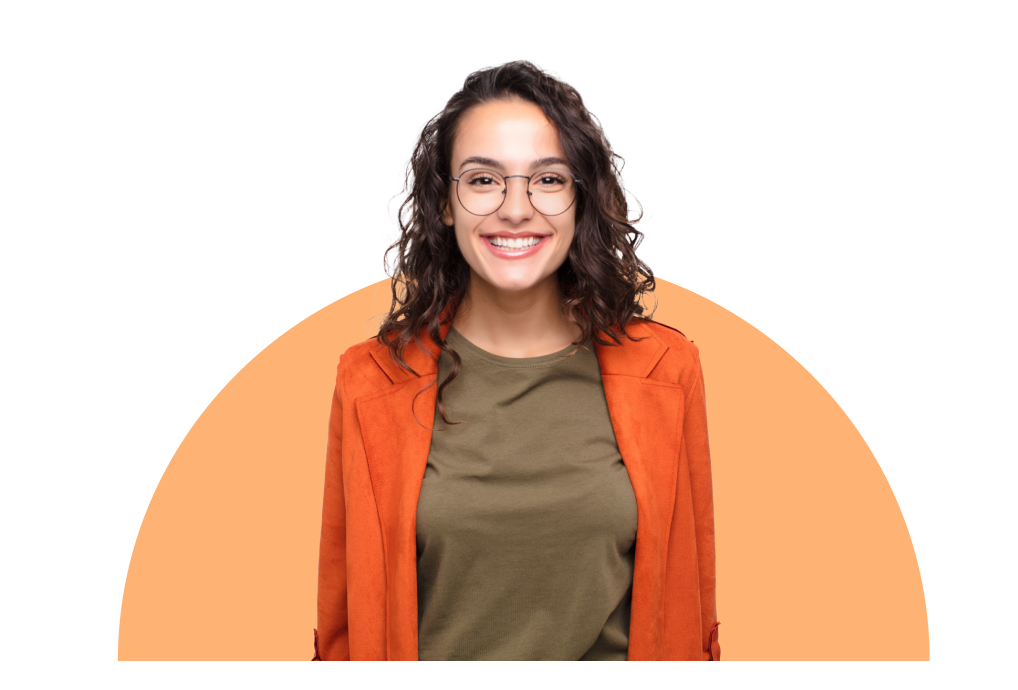
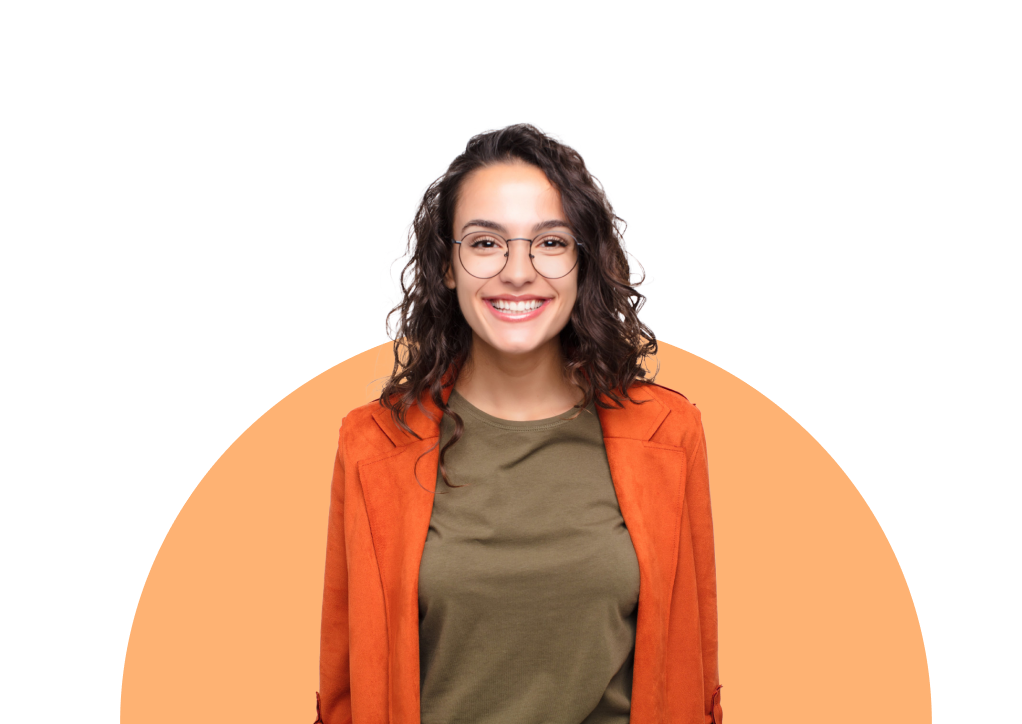
Updates

Changed region(s): [[0.0914, 0.0913, 0.9136, 1.0]]

diff --git a/css/style.css b/css/style.css
@@ -5,6 +5,7 @@
 :root  {  
             --orange:#FD853A;
             --bege:#F5EDEA;
+            --gray:#F2F4F7;
 }
 /* Add the local repository to the fonts */
 @font-face {
@@ -155,10 +156,10 @@
     font-family: 'Lufga';
     src: url('Lufga-MediumItalic.eot');
     src: local('Lufga Medium Italic'), local('Lufga-MediumItalic'),
-        url('Lufga-MediumItalic.eot?#iefix') format('embedded-opentype'),
-        url('Lufga-MediumItalic.woff2') format('woff2'),
-        url('Lufga-MediumItalic.woff') format('woff'),
-        url('Lufga-MediumItalic.ttf') format('truetype');
+    url('Lufga-MediumItalic.eot?#iefix') format('embedded-opentype'),
+    url('Lufga-MediumItalic.woff2') format('woff2'),
+    url('Lufga-MediumItalic.woff') format('woff'),
+    url('Lufga-MediumItalic.ttf') format('truetype');
     font-weight: 500;
     font-style: italic;
 }
@@ -167,10 +168,10 @@
     font-family: 'Lufga';
     src: url('Lufga-Italic.eot');
     src: local('Lufga Italic'), local('Lufga-Italic'),
-        url('Lufga-Italic.eot?#iefix') format('embedded-opentype'),
-        url('Lufga-Italic.woff2') format('woff2'),
-        url('Lufga-Italic.woff') format('woff'),
-        url('Lufga-Italic.ttf') format('truetype');
+    url('Lufga-Italic.eot?#iefix') format('embedded-opentype'),
+    url('Lufga-Italic.woff2') format('woff2'),
+    url('Lufga-Italic.woff') format('woff'),
+    url('Lufga-Italic.ttf') format('truetype');
     font-weight: normal;
     font-style: italic;
 }
@@ -179,10 +180,10 @@
     font-family: 'Lufga';
     src: url('Lufga-SemiBold.eot');
     src: local('Lufga SemiBold'), local('Lufga-SemiBold'),
-        url('Lufga-SemiBold.eot?#iefix') format('embedded-opentype'),
-        url('Lufga-SemiBold.woff2') format('woff2'),
-        url('Lufga-SemiBold.woff') format('woff'),
-        url('Lufga-SemiBold.ttf') format('truetype');
+    url('Lufga-SemiBold.eot?#iefix') format('embedded-opentype'),
+    url('Lufga-SemiBold.woff2') format('woff2'),
+    url('Lufga-SemiBold.woff') format('woff'),
+    url('Lufga-SemiBold.ttf') format('truetype');
     font-weight: 600;
     font-style: normal;
 }
@@ -191,10 +192,10 @@
     font-family: 'Lufga';
     src: url('Lufga-SemiBoldItalic.eot');
     src: local('Lufga SemiBold Italic'), local('Lufga-SemiBoldItalic'),
-        url('Lufga-SemiBoldItalic.eot?#iefix') format('embedded-opentype'),
-        url('Lufga-SemiBoldItalic.woff2') format('woff2'),
-        url('Lufga-SemiBoldItalic.woff') format('woff'),
-        url('Lufga-SemiBoldItalic.ttf') format('truetype');
+    url('Lufga-SemiBoldItalic.eot?#iefix') format('embedded-opentype'),
+    url('Lufga-SemiBoldItalic.woff2') format('woff2'),
+    url('Lufga-SemiBoldItalic.woff') format('woff'),
+    url('Lufga-SemiBoldItalic.ttf') format('truetype');
     font-weight: 600;
     font-style: italic;
 }
@@ -203,10 +204,10 @@
     font-family: 'Lufga';
     src: url('Lufga-ThinItalic.eot');
     src: local('Lufga Thin Italic'), local('Lufga-ThinItalic'),
-        url('Lufga-ThinItalic.eot?#iefix') format('embedded-opentype'),
-        url('Lufga-ThinItalic.woff2') format('woff2'),
-        url('Lufga-ThinItalic.woff') format('woff'),
-        url('Lufga-ThinItalic.ttf') format('truetype');
+    url('Lufga-ThinItalic.eot?#iefix') format('embedded-opentype'),
+    url('Lufga-ThinItalic.woff2') format('woff2'),
+    url('Lufga-ThinItalic.woff') format('woff'),
+    url('Lufga-ThinItalic.ttf') format('truetype');
     font-weight: 100;
     font-style: italic;
 }
@@ -215,10 +216,10 @@
     font-family: 'Lufga';
     src: url('Lufga-Thin.eot');
     src: local('Lufga Thin'), local('Lufga-Thin'),
-        url('Lufga-Thin.eot?#iefix') format('embedded-opentype'),
-        url('Lufga-Thin.woff2') format('woff2'),
-        url('Lufga-Thin.woff') format('woff'),
-        url('Lufga-Thin.ttf') format('truetype');
+    url('Lufga-Thin.eot?#iefix') format('embedded-opentype'),
+    url('Lufga-Thin.woff2') format('woff2'),
+    url('Lufga-Thin.woff') format('woff'),
+    url('Lufga-Thin.ttf') format('truetype');
     font-weight: 100;
     font-style: normal;
 }
@@ -227,11 +228,12 @@
 header { width: 1360px; height:100px; border:2px solid rgb(48, 48, 48); background-color:#171717; margin:auto; border-radius:50px; margin-top:40px; display:flex; align-items:center; justify-content:center;}
 nav { border:2px solid white; width:1350px; height:80px; border-radius:50px; display:flex; align-items:center; justify-content:space-between; }
 a { text-decoration:none; color:white; }
-.nav_item { border:2px solid orange; height:66px; width:158px; display:flex; align-items:center; justify-content:center;}
+.nav_item { border:2px solid orange; height:66px; width:158px; display:flex; align-items:center; justify-content:center; }
 .nav_item:nth-child(1) { background-color:var(--orange); border-radius:60px; }
 #nav_logo { width:300px; height:66px; border:2px solid orange; display:flex; align-items:center; justify-content:center; }
 
-#section_01 { display:flex; align-items:center; justify-content:center; border:1px solid red; flex-direction:column; width:1460px; margin:auto; margin-top:20px;} 
+/* Section 01 */
+#section_01 { display:flex; align-items:center; justify-content:center; border:1px solid red; flex-direction:column; width:90vw; margin:auto; margin-top:20px;} 
 #section_01 > article:nth-child(1) { border:1px solid black; height:266px; width:913px; display:flex; flex-direction:column; align-items:center; justify-content:center; gap:10px;}
 #hello_mini_box { border:1px solid black; width:127.49px; height:64px; background-image:url('../asstes/images/hello_mini_box.png'); background-repeat:no-repeat; background-size:cover; }
 #mini_intro_box { border:1px solid black; height:189px; width:913px; display:flex; justify-content:center; align-items:center; }
@@ -243,16 +245,41 @@ a { text-decoration:none; color:white; }
 #section_01_stars_container > h2 { font-size:46px; }
 #section_01_stars_container > h3 {  }
 
-
 #section_01 > article:nth-child(3) { 
-    border:1px solid #e205ff; height:618px; width:952.4px; background-image:url('../asstes/images/banner_home.png'); background-repeat:no-repeat; background-size:cover; 
-    display:flex; align-items:center; justify-content:center; 
+    border:1px solid #e205ff; min-height:700px; min-width:964.4px; background-image:url('../asstes/images/banner_home.png'); 
+    display:flex; align-items:center; justify-content:center; background-size:cover; background-repeat:no-repeat; 
 }
-
+#section_01 > article:nth-child(3):hover {  border:1px solid #e205ff; background-image:url('../asstes/images/banner_home_post_effect.png');}
 #home_cta_container { 
     display:flex; align-items:center; justify-content:space-around; border:2px solid #D4D4D4; width:367px; height:82px; border-radius:50px; position:relative; top:200px; 
     background: rgba(208, 213, 221, 0.15); box-shadow: 0 4px 30px rgba(0, 0, 0, 0.1); backdrop-filter: blur(7.6px); -webkit-backdrop-filter: blur(7.6px);
 }
 
 #portfolio_button { border:1px solid #D0D5DD; width:208px; height:62px; border-radius:60px; background-color:var(--orange); display:flex; align-items:center; justify-content:center; gap:12px;}
-#hire_me_container { border:1px solid red; height:54px; width:129px; display:flex; align-items:center; justify-content:center;}
+#hire_me_container { border:1px solid red; height:54px; width:129px; display:flex; align-items:center; justify-content:center; }
+
+/* Section 02 */
+
+#section_02 { 
+    display:flex; align-items:center; justify-content:center; border:1px solid red; flex-direction:column; border-radius:50px; margin:auto; height:878px; width:100vw; 
+    background-size:cover; background-repeat:no-repeat; background-image: url('../asstes/images/section_02_banner.png');
+} 
+
+/* Section 03 */
+#section_03 { border: 1px solid red; display:flex; align-items:center; justify-content:center; flex-direction:column; margin-top:20px; padding:20px; }
+#section_03 > article { height:828px; border:1px solid black; width:95%; display:flex; align-items:center; justify-content: space-between; flex-direction:column; }
+#section_03_container_A { border:1px solid black; height:234px; width:1298px; display:flex; align-items:center; justify-content:center; }
+#section_03_container_B { width:1298px; height:438px; border:1px solid red; display:flex; align-items:flex-start; justify-content:space-between; }
+
+#work_experience_box_A { width:495px; height:438px; border:1px solid black; display:flex; flex-direction:column; align-items:flex-start; justify-content:space-between;}
+#work_experience_box_B { width:48px; height:400px; border:1px solid black;  }
+#work_experience_box_C { width:444px; height:400px; border:1px solid black; display:flex; flex-direction:column; align-items:flex-start; justify-content:space-between;}
+
+.work_experience_place_container { border: 1px solid black; height:78px; width:495px;  display:flex; flex-direction:column; align-items:flex-start; justify-content:space-between; }
+.work_experience_place_container_02 { border: 1px solid black; height:132px; width:444px;  display:flex; flex-direction:column; align-items:flex-start; justify-content:space-between; }
+
+/* Section 04 */
+#section_04 { border: 1px solid red; display:flex; align-items:center; justify-content:center; flex-direction:column; margin-top:20px; padding:20px; height:806px;  background-color:var(--gray);}
+#section_04 > article { height:600px; border:1px solid black; width:95%; display:flex; align-items:center; justify-content: space-between; flex-direction:column; }
+
+#section_04_box_A { border:1px solid black; height:600px; width:603px; }

diff --git a/html/index.html b/html/index.html
@@ -46,6 +46,54 @@
             </div>
         </article>
     </section>
+
+    <section id="section_02">
+
+    </section>
+
+    <section id="section_03">
+        <article>
+            <div id="section_03_container_A"> </div>
+            <div id="section_03_container_B"> 
+                <div id="work_experience_box_A">
+                    <div class="work_experience_place_container"> 
+                        <h1> Cognizant, Mumbai </h1>  
+                        <h3> Sep 2016- July 2020</h3>
+                    </div>
+                    <div class="work_experience_place_container"> 
+                        <h1> Sugee Pvt limited, Mumbai </h1>  
+                        <h3> Sep 2020- July 2023 </h3>
+                    </div>
+                    <div class="work_experience_place_container"> 
+                        <h1> Cinetstox, Mumbai </h1>  
+                        <h3> Sep 2023 </h3>
+                    </div>
+                </div>
+                <div id="work_experience_box_B"> </div>
+                <div id="work_experience_box_C"> 
+                    <div class="work_experience_place_container_02"> 
+                        <h1> Cognizant, Mumbai </h1>  
+                        <h3> Sep 2016- July 2020</h3>
+                    </div>
+                    <div class="work_experience_place_container_02"> 
+                        <h1> Sugee Pvt limited, Mumbai </h1>  
+                        <h3> Sep 2020- July 2023 </h3>
+                    </div>
+                    <div class="work_experience_place_container_02"> 
+                        <h1> Cinetstox, Mumbai </h1>  
+                        <h3> Sep 2023 </h3>
+                    </div>
+                </div>
+            </div>
+        </article>
+    </section>
+
+    <section id="section_04">
+        <article>
+            <div id="section_04_box_A"> </div>
+            <div id="section_04_box_B"> </div>
+        </article>
+    </section>
 </body>
 
 </html>
